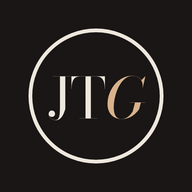
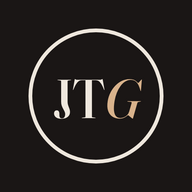
Switch display serif to Fraunces for better readability
Bodoni Moda's hairlines disappeared at reading sizes and over photos.
Replace it with Fraunces (variable, optical sizing, classic settings),
chosen after comparing nine rendered candidates for legibility, luxury
fit and pairing with Jost.

- Fraunces opsz/wght with true italics; optical size capped at 96 for
  very large headlines so strokes stay sturdy over photography
- Retuned weights (small serif text 430-460), looser letter-spacing and
  slightly taller line-heights to suit Fraunces' proportions
- Body text Jost 380 -> 400, lead paragraphs 350/360 -> 380
- Soft text shadow on hero headlines and lead for contrast on photos
- Favicon redrawn as Fraunces outlines; PNG app icons regenerated

Claude-Session: https://claude.ai/code/session_01Cyn9Frj1ynmvwsrQ94Tw7W

Changed region(s): [[0.25, 0.375, 0.7812, 0.625], [0.5312, 0.5, 0.75, 0.625]]

diff --git a/src/styles/global.css b/src/styles/global.css
@@ -1,5 +1,5 @@
-@import '@fontsource-variable/bodoni-moda/opsz.css';
-@import '@fontsource-variable/bodoni-moda/opsz-italic.css';
+@import '@fontsource-variable/fraunces/opsz.css';
+@import '@fontsource-variable/fraunces/opsz-italic.css';
 @import '@fontsource-variable/jost/wght.css';
 
 /* ==========================================================================
@@ -27,7 +27,7 @@
   --success: #2f5d3a;
 
   /* type */
-  --font-serif: 'Bodoni Moda Variable', 'Bodoni 72', 'Didot', 'Times New Roman', serif;
+  --font-serif: 'Fraunces Variable', 'Iowan Old Style', 'Palatino Linotype', Georgia, serif;
   --font-sans: 'Jost Variable', 'Futura', 'Avenir Next', 'Helvetica Neue', Arial, sans-serif;
 
   --fs-xs: 0.75rem;
@@ -78,7 +78,7 @@ body {
   color: var(--ink);
   font-family: var(--font-sans);
   font-size: var(--fs-base);
-  font-weight: 380;
+  font-weight: 400;
   line-height: 1.62;
   letter-spacing: 0.005em;
   -webkit-font-smoothing: antialiased;
@@ -135,21 +135,27 @@ address { font-style: normal; }
 .serif, h1, h2, h3, .h1, .h2, .h3, .display {
   font-family: var(--font-serif);
   font-optical-sizing: auto;
-  font-weight: 420;
-  letter-spacing: -0.012em;
-  line-height: 1.04;
+  font-weight: 400;
+  letter-spacing: -0.006em;
+  line-height: 1.08;
   text-wrap: balance;
 }
-.display { font-size: var(--fs-display); line-height: 0.94; letter-spacing: -0.025em; font-weight: 400; }
-h1, .h1 { font-size: var(--fs-h1); line-height: 0.98; letter-spacing: -0.022em; }
-h2, .h2 { font-size: var(--fs-h2); letter-spacing: -0.018em; }
-h3, .h3 { font-size: var(--fs-h3); line-height: 1.1; }
+.display { font-size: var(--fs-display); line-height: 1; letter-spacing: -0.012em; font-weight: 420; }
+h1, .h1 { font-size: var(--fs-h1); line-height: 1.02; letter-spacing: -0.011em; font-weight: 420; }
+h2, .h2 { font-size: var(--fs-h2); line-height: 1.06; letter-spacing: -0.009em; }
+h3, .h3 { font-size: var(--fs-h3); line-height: 1.12; letter-spacing: -0.004em; }
+/* Very large settings: cap the optical size so hairlines stay sturdy over photography */
+@media (min-width: 1200px) {
+  .display, h1, .h1 { font-variation-settings: 'opsz' 96; }
+}
 h4, .h4 { font-family: var(--font-sans); font-size: var(--fs-h4); font-weight: 400; line-height: 1.3; letter-spacing: 0; }
 em, .italic { font-style: italic; }
-h1 em, h2 em, h3 em, .display em { font-weight: 400; color: var(--wine); }
+h1 em, h2 em, h3 em, .display em { color: var(--wine); }
 .on-night h1 em, .on-night h2 em, .on-night h3 em, .on-night .display em { color: #d9b38c; }
+/* Small serif text (≈ 15–24px) reads best a touch heavier */
+.serif-sm { font-family: var(--font-serif); font-optical-sizing: auto; font-weight: 450; letter-spacing: 0.002em; }
 
-.lead { font-size: var(--fs-lead); line-height: 1.55; font-weight: 360; color: var(--ink-2); text-wrap: pretty; }
+.lead { font-size: var(--fs-lead); line-height: 1.55; font-weight: 380; color: var(--ink-2); text-wrap: pretty; }
 .on-night .lead { color: var(--on-night); }
 p { text-wrap: pretty; }
 .muted { color: var(--muted); }
@@ -439,10 +445,10 @@ p { text-wrap: pretty; }
   .ph__content { padding-top: calc(var(--header-h) + 10vh); padding-bottom: clamp(36px, 7vh, 80px); color: #f6efe6; }
   .crumbs { display: flex; gap: 0.6rem; font-size: var(--fs-xs); letter-spacing: 0.16em; text-transform: uppercase; color: rgb(246 239 230 / 0.8); }
   .crumbs a:hover { color: #fff; }
-  .ph__title { margin-top: 1.4rem; max-width: 13ch; color: #f6efe6; }
+  .ph__title { margin-top: 1.4rem; max-width: 16ch; color: #f6efe6; text-shadow: 0 2px 32px rgb(15 12 11 / 0.35); }
   .ph__title em { color: #e6c19c; }
   .ph__lower { display: grid; grid-template-columns: minmax(0, 1fr) auto; gap: 2rem 4rem; align-items: end; margin-top: 2.25rem; }
-  .ph__lead { max-width: 48ch; font-size: var(--fs-lead); line-height: 1.5; color: rgb(246 239 230 / 0.9); font-weight: 350; }
+  .ph__lead { max-width: 48ch; font-size: var(--fs-lead); line-height: 1.5; color: rgb(246 239 230 / 0.92); font-weight: 380; }
   .ph__ctas { display: flex; flex-wrap: wrap; gap: 0.75rem; }
   .ph__ghost { --btn-fg: #f6efe6 !important; border-color: rgb(246 239 230 / 0.45) !important; }
   .ph__ghost:hover { color: #f6efe6 !important; border-color: var(--wine) !important; }

diff --git a/src/styles/forms.css b/src/styles/forms.css
@@ -18,6 +18,7 @@
   padding-bottom: 0.9rem;
   border-bottom: 1px solid var(--line);
   font-family: var(--font-serif);
+  font-weight: 430;
   font-size: clamp(1.3rem, 1.1rem + 0.6vw, 1.75rem);
   line-height: 1.2;
 }

diff --git a/README.md b/README.md
@@ -14,7 +14,7 @@ Website for **Jemma Ter-Grigoryan**, her interior design studio and her interior
 | Framework | [Astro 7](https://astro.build) — static output, one HTML file per page |
 | Images | `astro:assets` + sharp — responsive WebP (JPEG fallback) generated at build time |
 | Motion | [Lenis](https://github.com/darkroomengineering/lenis) smooth scrolling + a small custom rAF scroll engine, IntersectionObserver reveals, CSS view transitions |
-| Fonts | Bodoni Moda + Jost, self-hosted via Fontsource (no external requests) |
+| Fonts | Fraunces (display serif) + Jost (sans), self-hosted via Fontsource (no external requests) |
 | Forms | [Netlify Forms](https://docs.netlify.com/forms/setup/) with AJAX submission, validation, honeypot |
 | Hosting | Netlify (configured in `netlify.toml`) |
 
